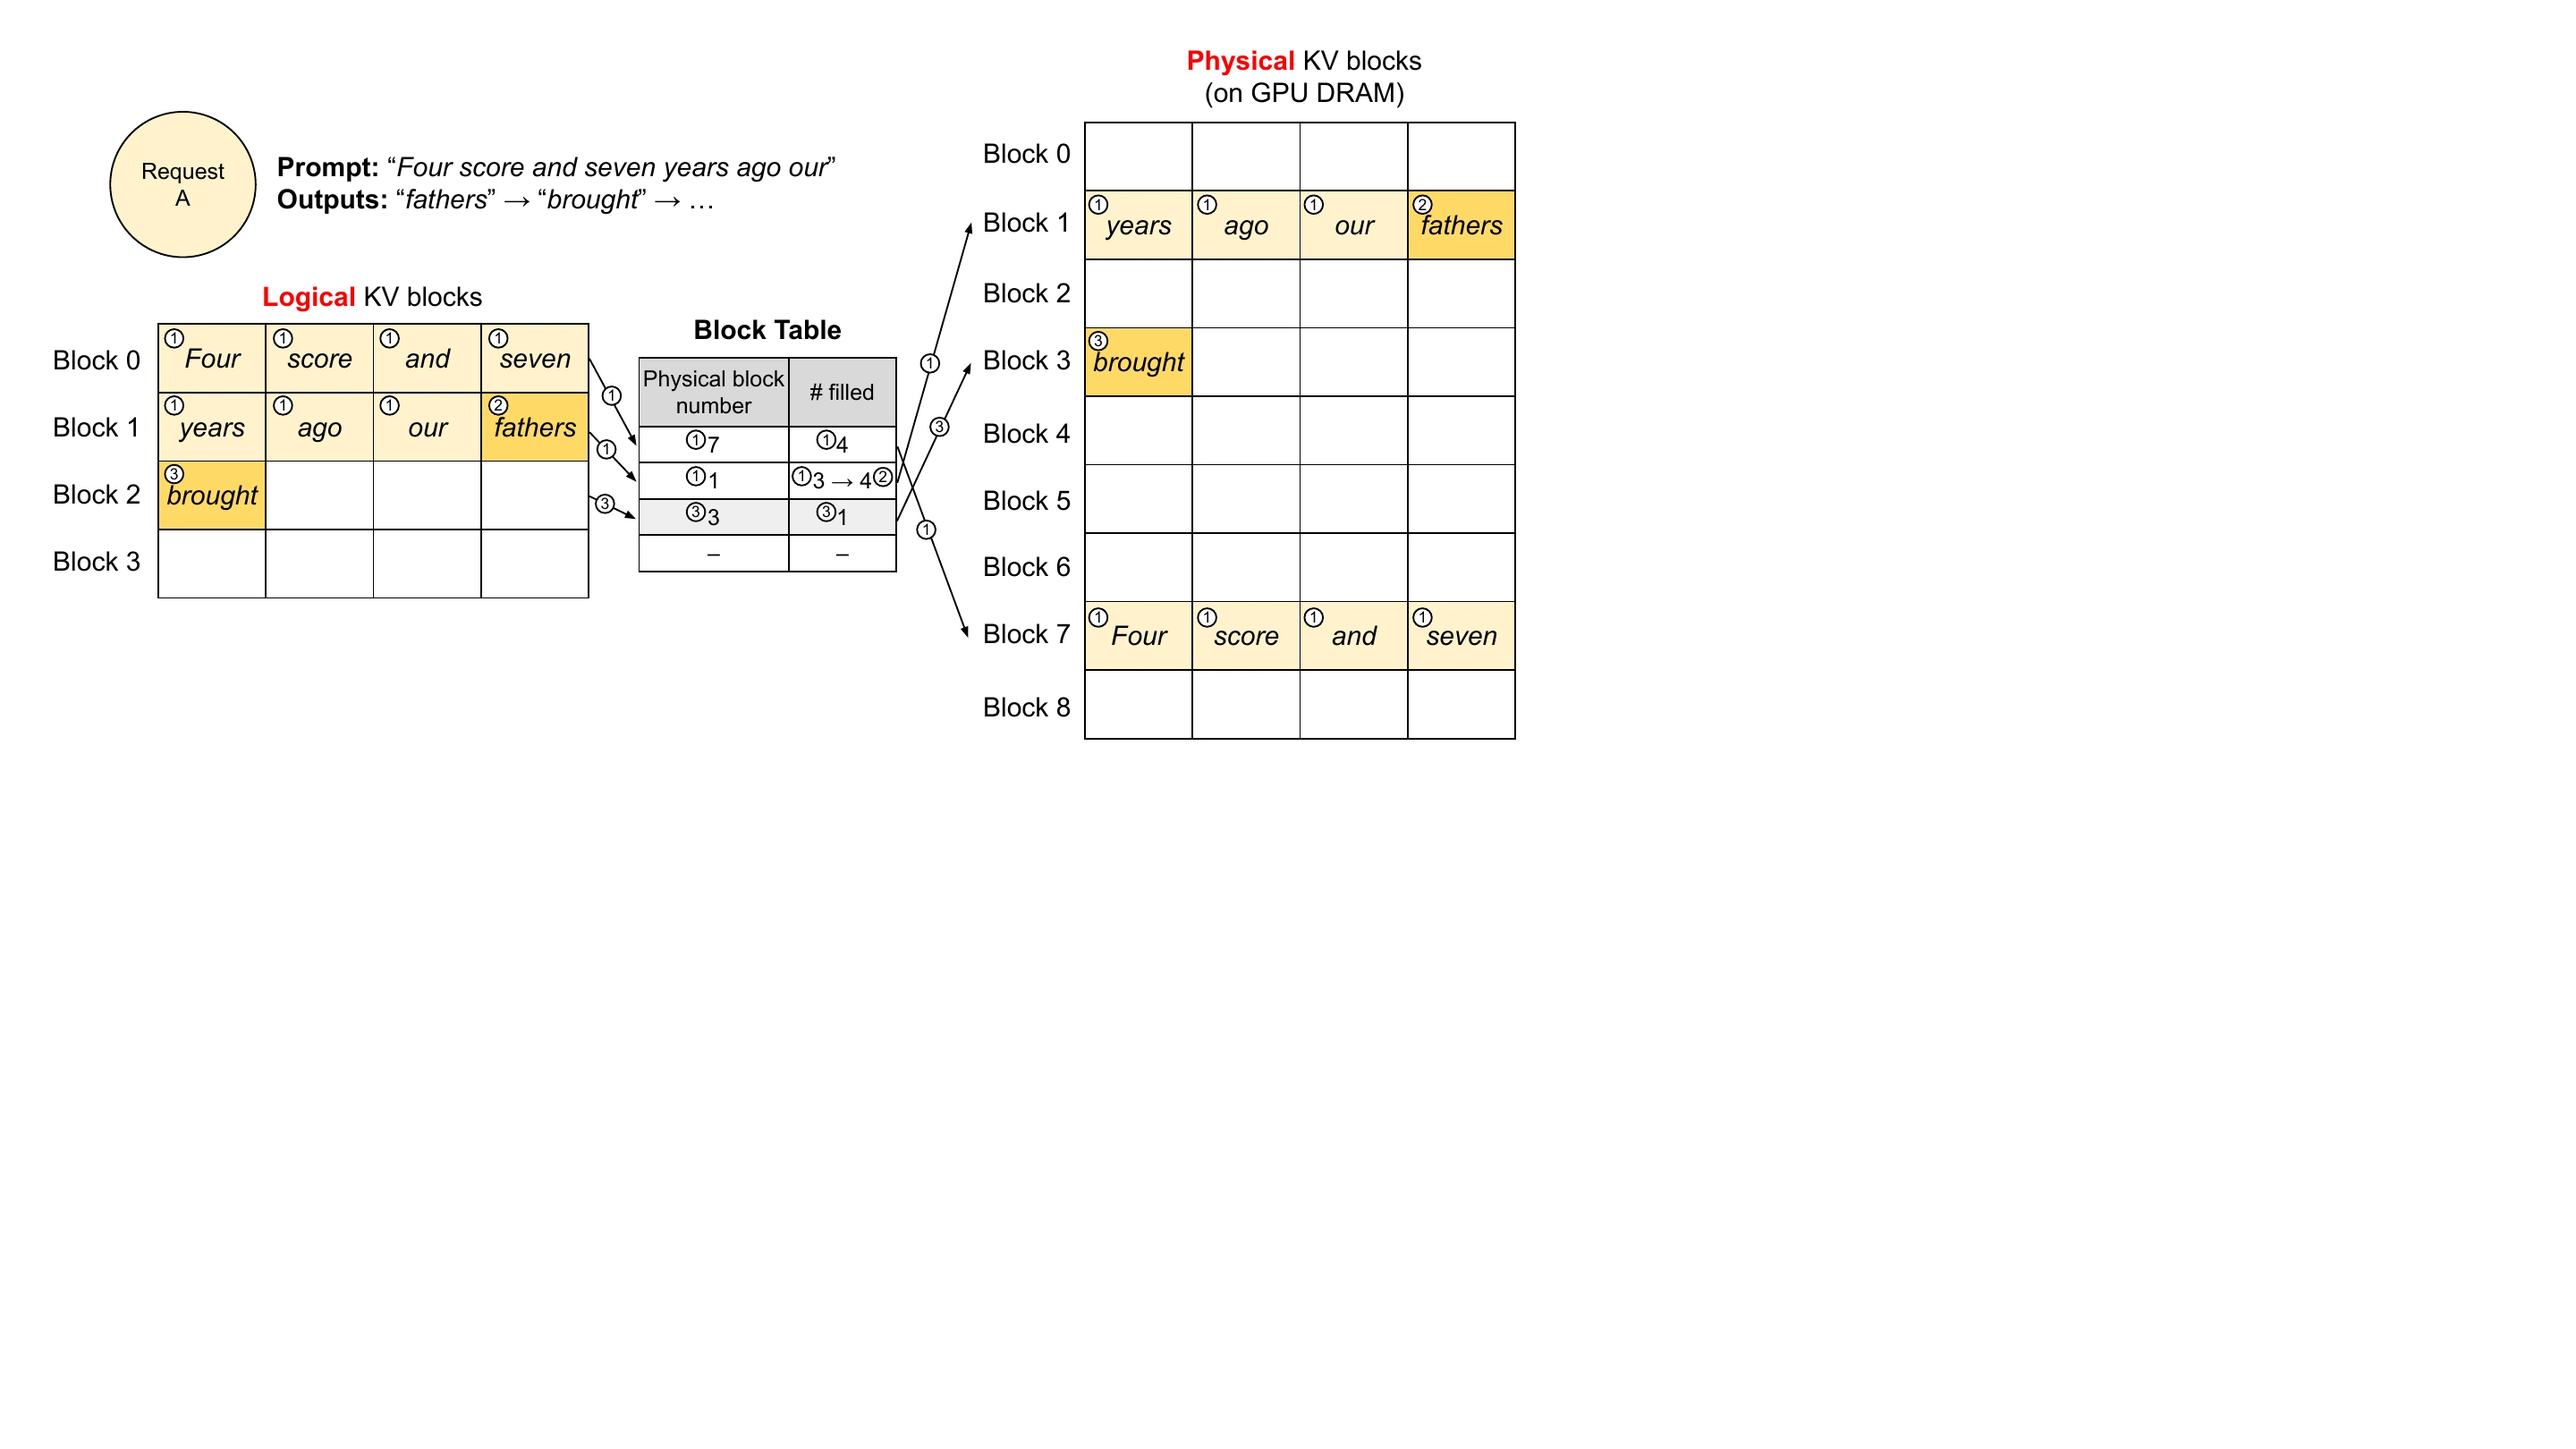
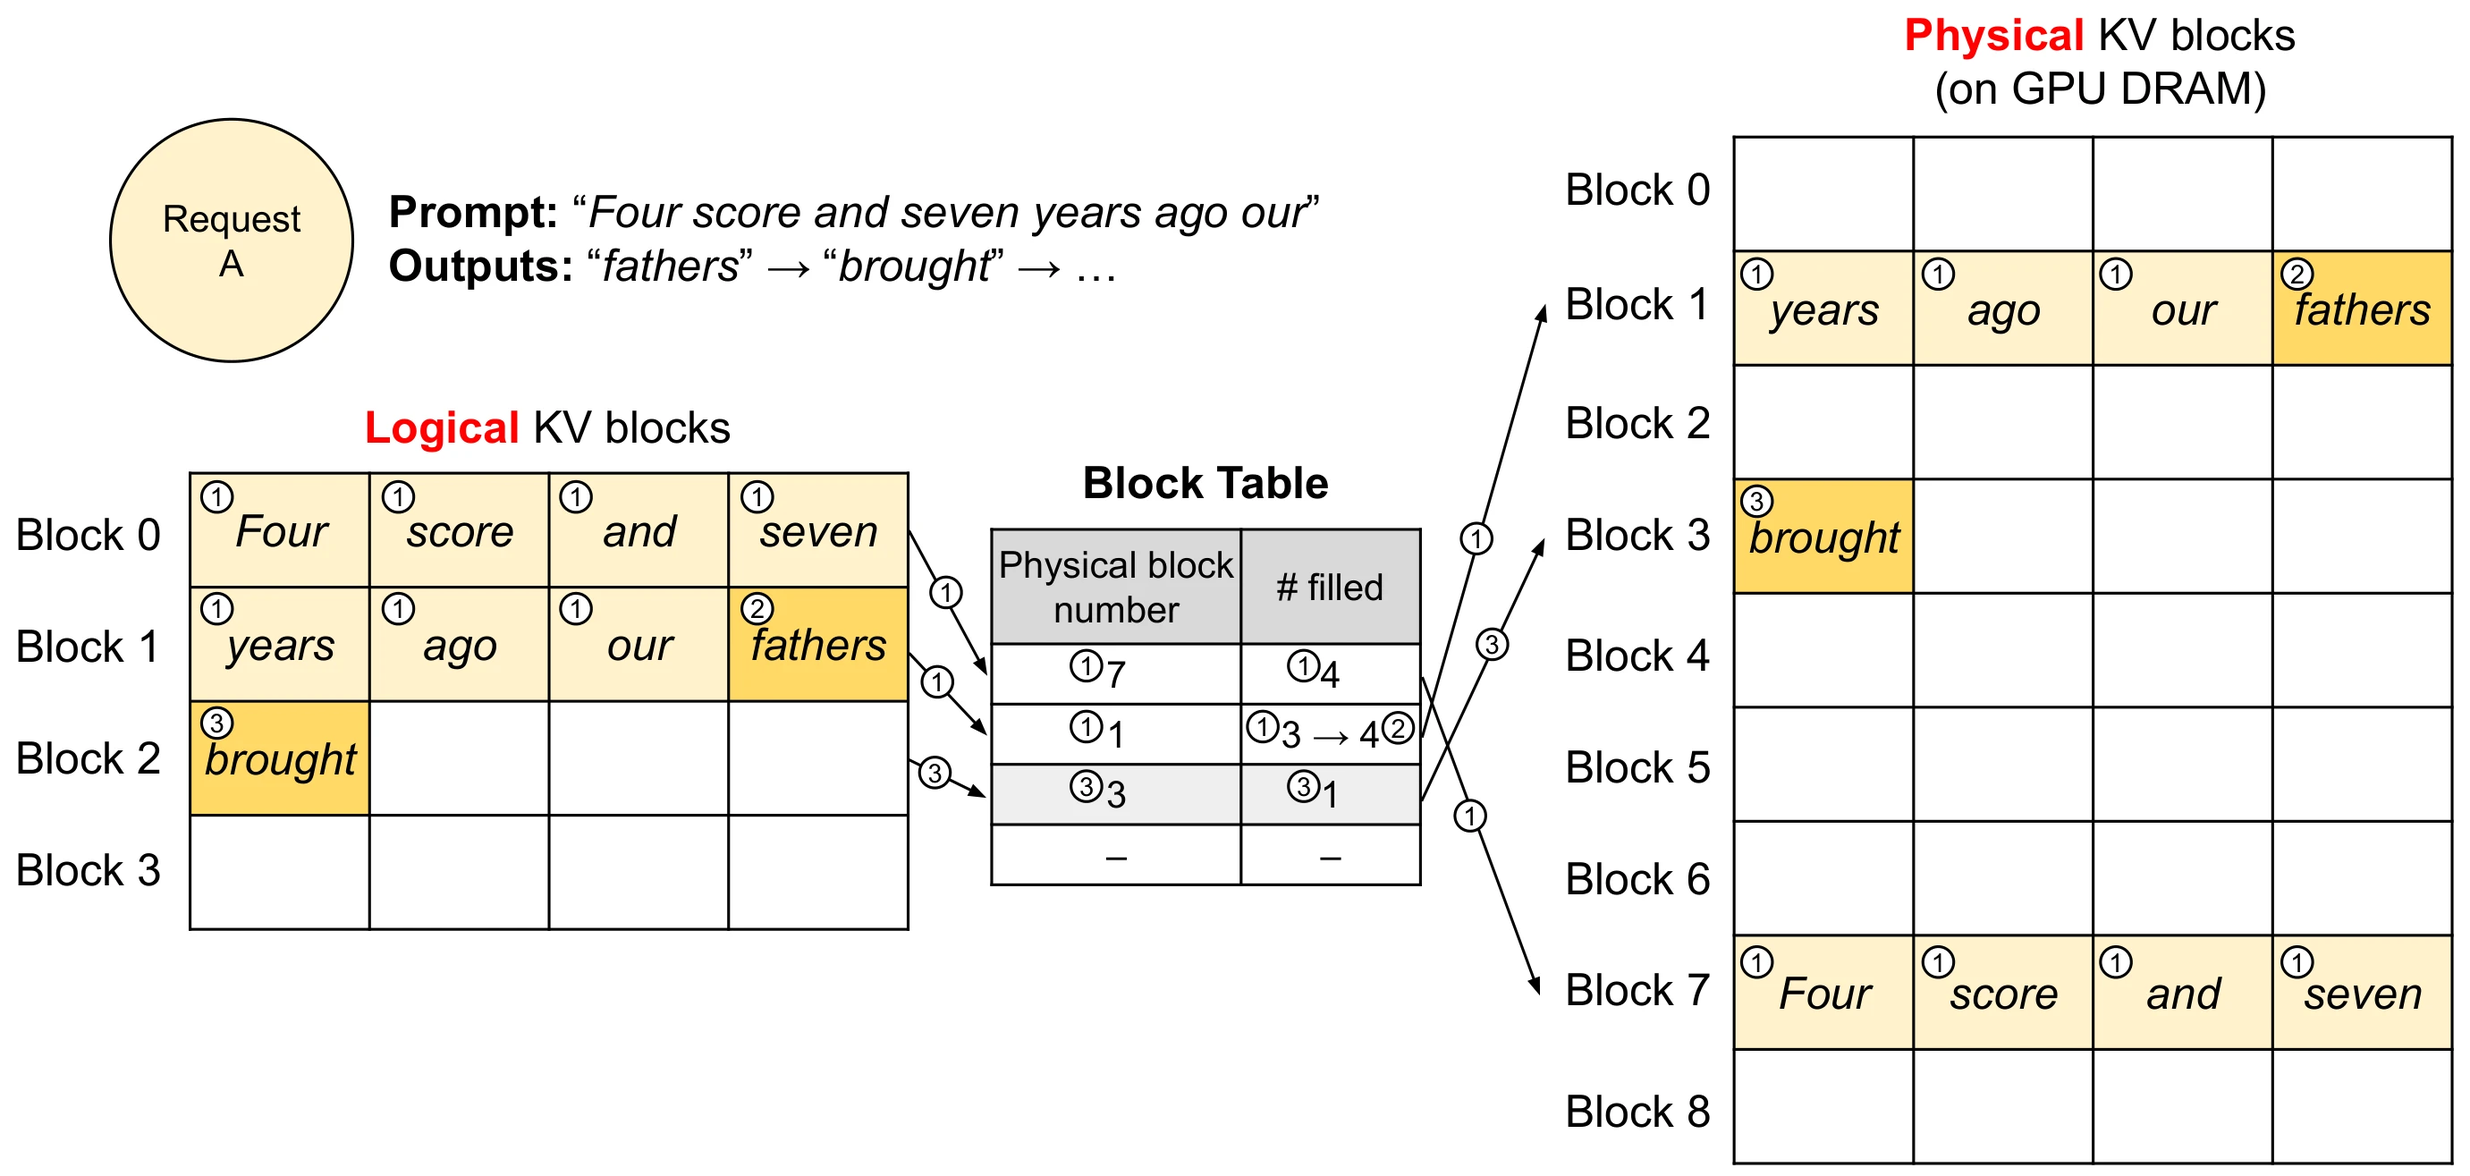
docs: crop PagedAttention figure from source PDF

diff --git a/media/images/kv-cache-fundamentals/figure-sources.md b/media/images/kv-cache-fundamentals/figure-sources.md
@@ -46,7 +46,7 @@
 - 来源：https://arxiv.org/abs/2309.06180v1；Kwon et al., PagedAttention, Fig. 4（v1，CC BY 4.0）。
 - 原件：`originals/pagedattention-logical-physical-blocks.pdf`；发布：`pagedattention-logical-physical-blocks.webp`。
 - 用途：逻辑KV块通过block table映射到不连续的物理显存块。
-- 变更：仅按原始图边界栅格化并转WebP，不裁内容、不修改图内文字。保留作者署名，按本条列出的原许可提供；未修改原图内容。
+- 变更：由归档的论文原始PDF以300 DPI栅格化，自动裁去四周空白并转WebP；图内文字、线条和内容未改动。修复2026-10-28发布时误用含大面积留白的截图（2880×1620），现发布尺寸2762×1315。
 
 ### causvid-fig5-causal-architecture
 
